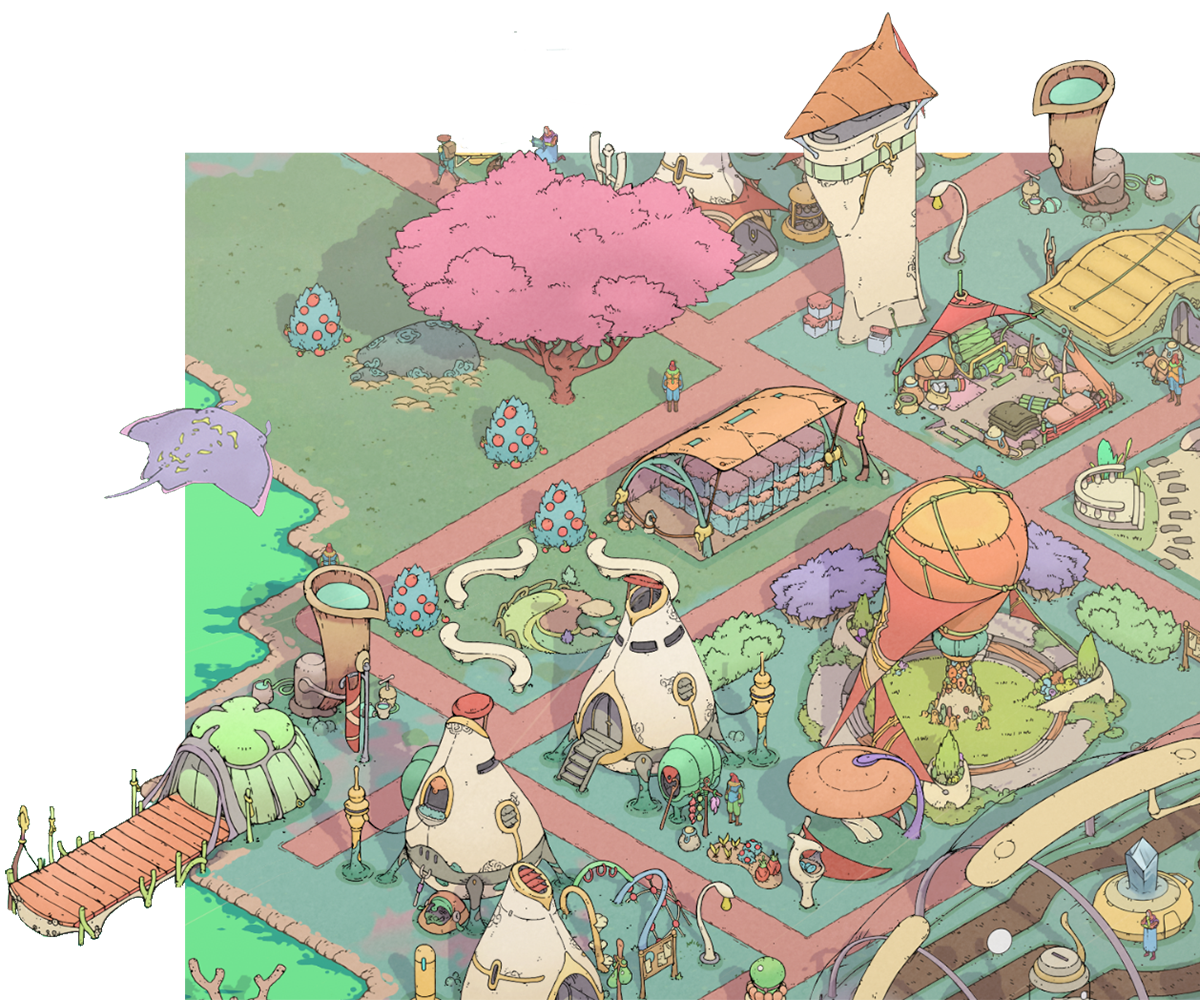
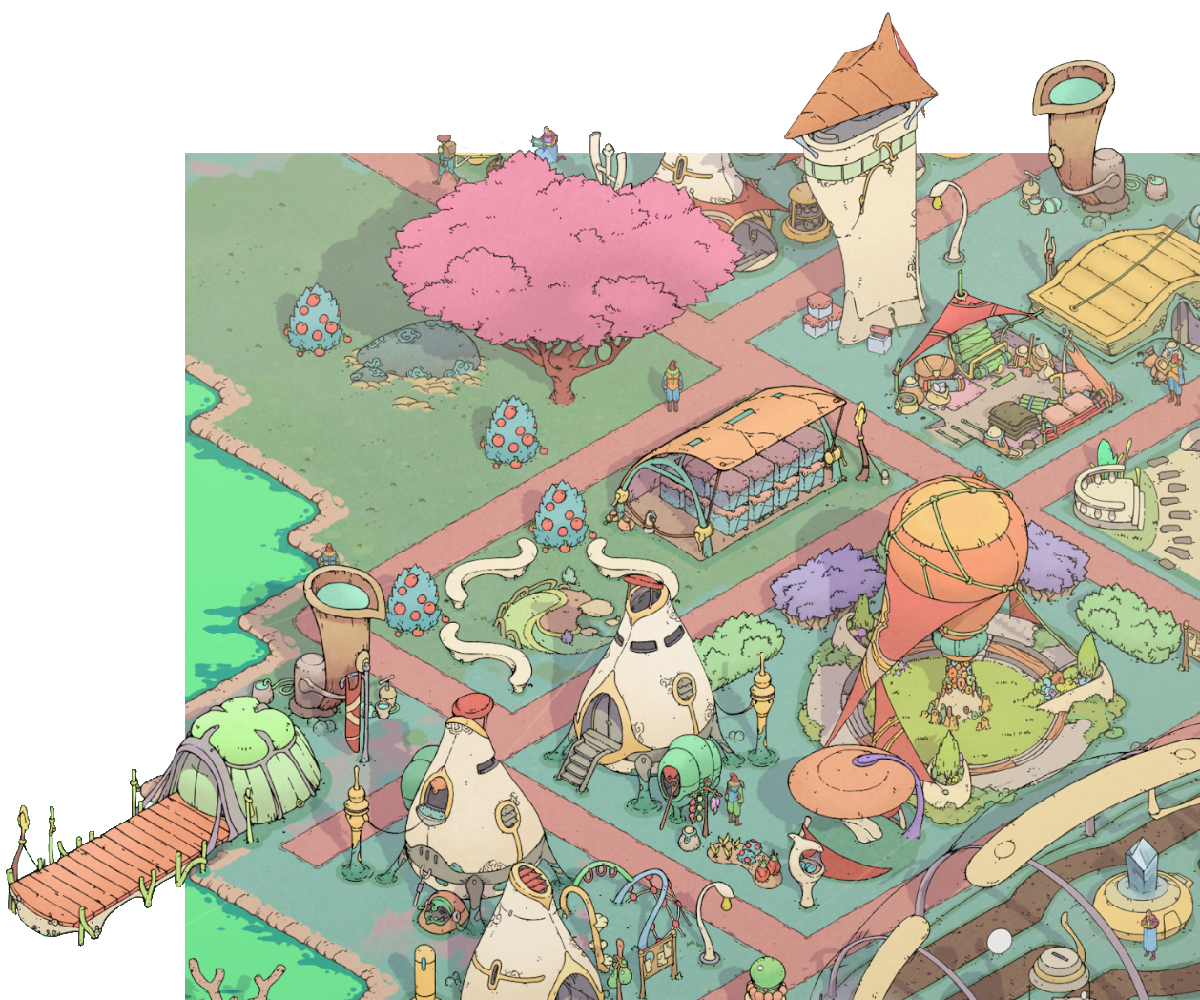
added anims

diff --git a/index.html b/index.html
@@ -74,6 +74,7 @@
                     <a class="justify-content-center btn btn-extra-large btn-dark-gray lg-margin-15px-bottom d-table d-lg-inline-block md-margin-lr-auto" href="#">Button Extra Large</a>
                 </div>
             </div>
+            <img src="./images/Leikir/manta.png" class="manta-anim"></img>
         </section>
 
         <!-- OMEA ID -->
@@ -90,7 +91,7 @@
         </section>
             
         <!-- TixiPass -->
-        <section class="wow animate__fadeIn padding-80px-tb row row-cols-1 row-cols-lg-2 bg-light-gray image-overflowing-bl justify-content-end" style="background-image:url('./images/Omea/m-ticket.png');">
+        <section class="wow animate__fadeIn padding-80px-tb row row-cols-1 row-cols-lg-2 bg-light-gray image-overflowing-bl justify-content-end" style="background-image:url('./images/Omea/m-ticket2.png');">
             <div class="col wow animate__fadeInRight padding-ten-right padding-two-left padding-five-tb md-padding-nine-half-tb xs-padding-15px-lr xs-padding-50px-tb">
                 <div class="d-flex justify-content-center padding-eight-bottom"><img src="./images/Omea/tixiPass.png" class="w-40"></img></div>
                 <p class="text-medium font-weight-600, line-height-56 text-justify">Synergy est un super jeu de Lorem ipsum dolor sit amet, consectetur adipiscing elit. Nunc ac odio eget tortor imperdiet pulvinar ut vitae metus. Morbi sit amet velit sed dolor scelerisque tempor quis in eros. In vel laoreet diam. Vivamus faucibus magna vel rhoncus ultrices. Suspendisse at posuere odio. Duis sed auctor mi. In volutpat, mauris et eleifend ultrices, magna turpis auctor tellus, ut gravida lacus nisl vitae lectus. Suspendisse hendrerit ac turpis in porta. Nulla facilisis, diam in ultrices iaculis, risus ipsum tincidunt leo, et fermentum ex lorem nec nulla.</p>
@@ -100,6 +101,7 @@
                     <a class="justify-content-center btn btn-extra-large btn-dark-gray lg-margin-15px-bottom d-table d-lg-inline-block md-margin-lr-auto" href="#">Button Extra Large</a>
                 </div>
             </div>
+            <img src="./images/Omea/phone.png" class="mticket-anim"></img>
         </section>
 
         <!-- start information section -->
@@ -485,5 +487,6 @@
         <!-- custom -->
         <script type="text/javascript" src="/js/header.js"></script> 
         <script type="text/javascript" src="/js/footer.js"></script> 
+        <script type="text/javascript" defer src="/js/customAnimations.js"></script>
     </body>
 </html>

diff --git a/js/customAnimations.js b/js/customAnimations.js
@@ -1,0 +1,19 @@
+const mantaanim = document.querySelector('.manta-anim');
+
+window.addEventListener('wheel', () => {
+    const scrollY = window.scrollY * 0.2;
+    mantaanim.style.transform = `translate(${scrollY*1.58}px, -${scrollY}px)`;
+});
+
+const mticketanim = document.querySelector('.mticket-anim');
+
+
+function animateMticket() {
+    const scrollY = window.scrollY * 0.1;
+    const rotateDeg = 15.0 - scrollY*0.05;
+    //mticketanim.style.transform = `translate(${scrollY*0.25}px, -${scrollY}px)`;
+    mticketanim.style.rotate = `${rotateDeg}deg`;
+}
+window.addEventListener('wheel', () => {
+    animateMticket();
+});

diff --git a/animTest.html b/animTest.html
@@ -1,0 +1,16 @@
+<!DOCTYPE html>
+<html lang="en">
+<head>
+    <meta charset="UTF-8">
+    <meta http-equiv="X-UA-Compatible" content="IE=edge">
+    <meta name="viewport" content="width=device-width, initial-scale=1.0">
+    <title>Animation Test</title>
+
+    <link rel="stylesheet" href="animTest.css">
+    <script defer src="animJs.js"></script>
+</head>
+<body>
+    <h1>Hello World</h1>
+    <div class="box"></div>
+</body>
+</html>

diff --git a/css/custom.css b/css/custom.css
@@ -27,3 +27,20 @@
     text-align: justify;
     text-justify : auto;
 }
+
+.manta-anim{
+    position:absolute;
+    width:181px;
+    height: 129px;
+    transform-origin: bottom right;
+    bottom:-700px;
+    right:900px;
+}
+.mticket-anim{
+    position:absolute;
+    height: 818px;
+    width:748px;
+    transform-origin: middle;
+    bottom:-2600px;
+    left:350px;
+}

diff --git a/animTest.css b/animTest.css
@@ -1,0 +1,16 @@
+body {
+    margin: 0;
+    padding: 20px;
+    font-family: Arial, sans-serif;
+    background-color: #f0f0f0;
+    height: 200vh;
+}
+
+.box {
+    width: 100px;
+    height: 100px;
+    background-color: #3498db;
+    position: fixed;
+    top: 50px;
+    left: 20px;
+}

diff --git a/animJs.js b/animJs.js
@@ -1,0 +1,6 @@
+const box = document.querySelector('.box');
+
+window.addEventListener('scroll', () => {
+    const scrollY = window.scrollY;
+    box.style.transform = `translate(${scrollY}px, ${scrollY}px)`;
+});
